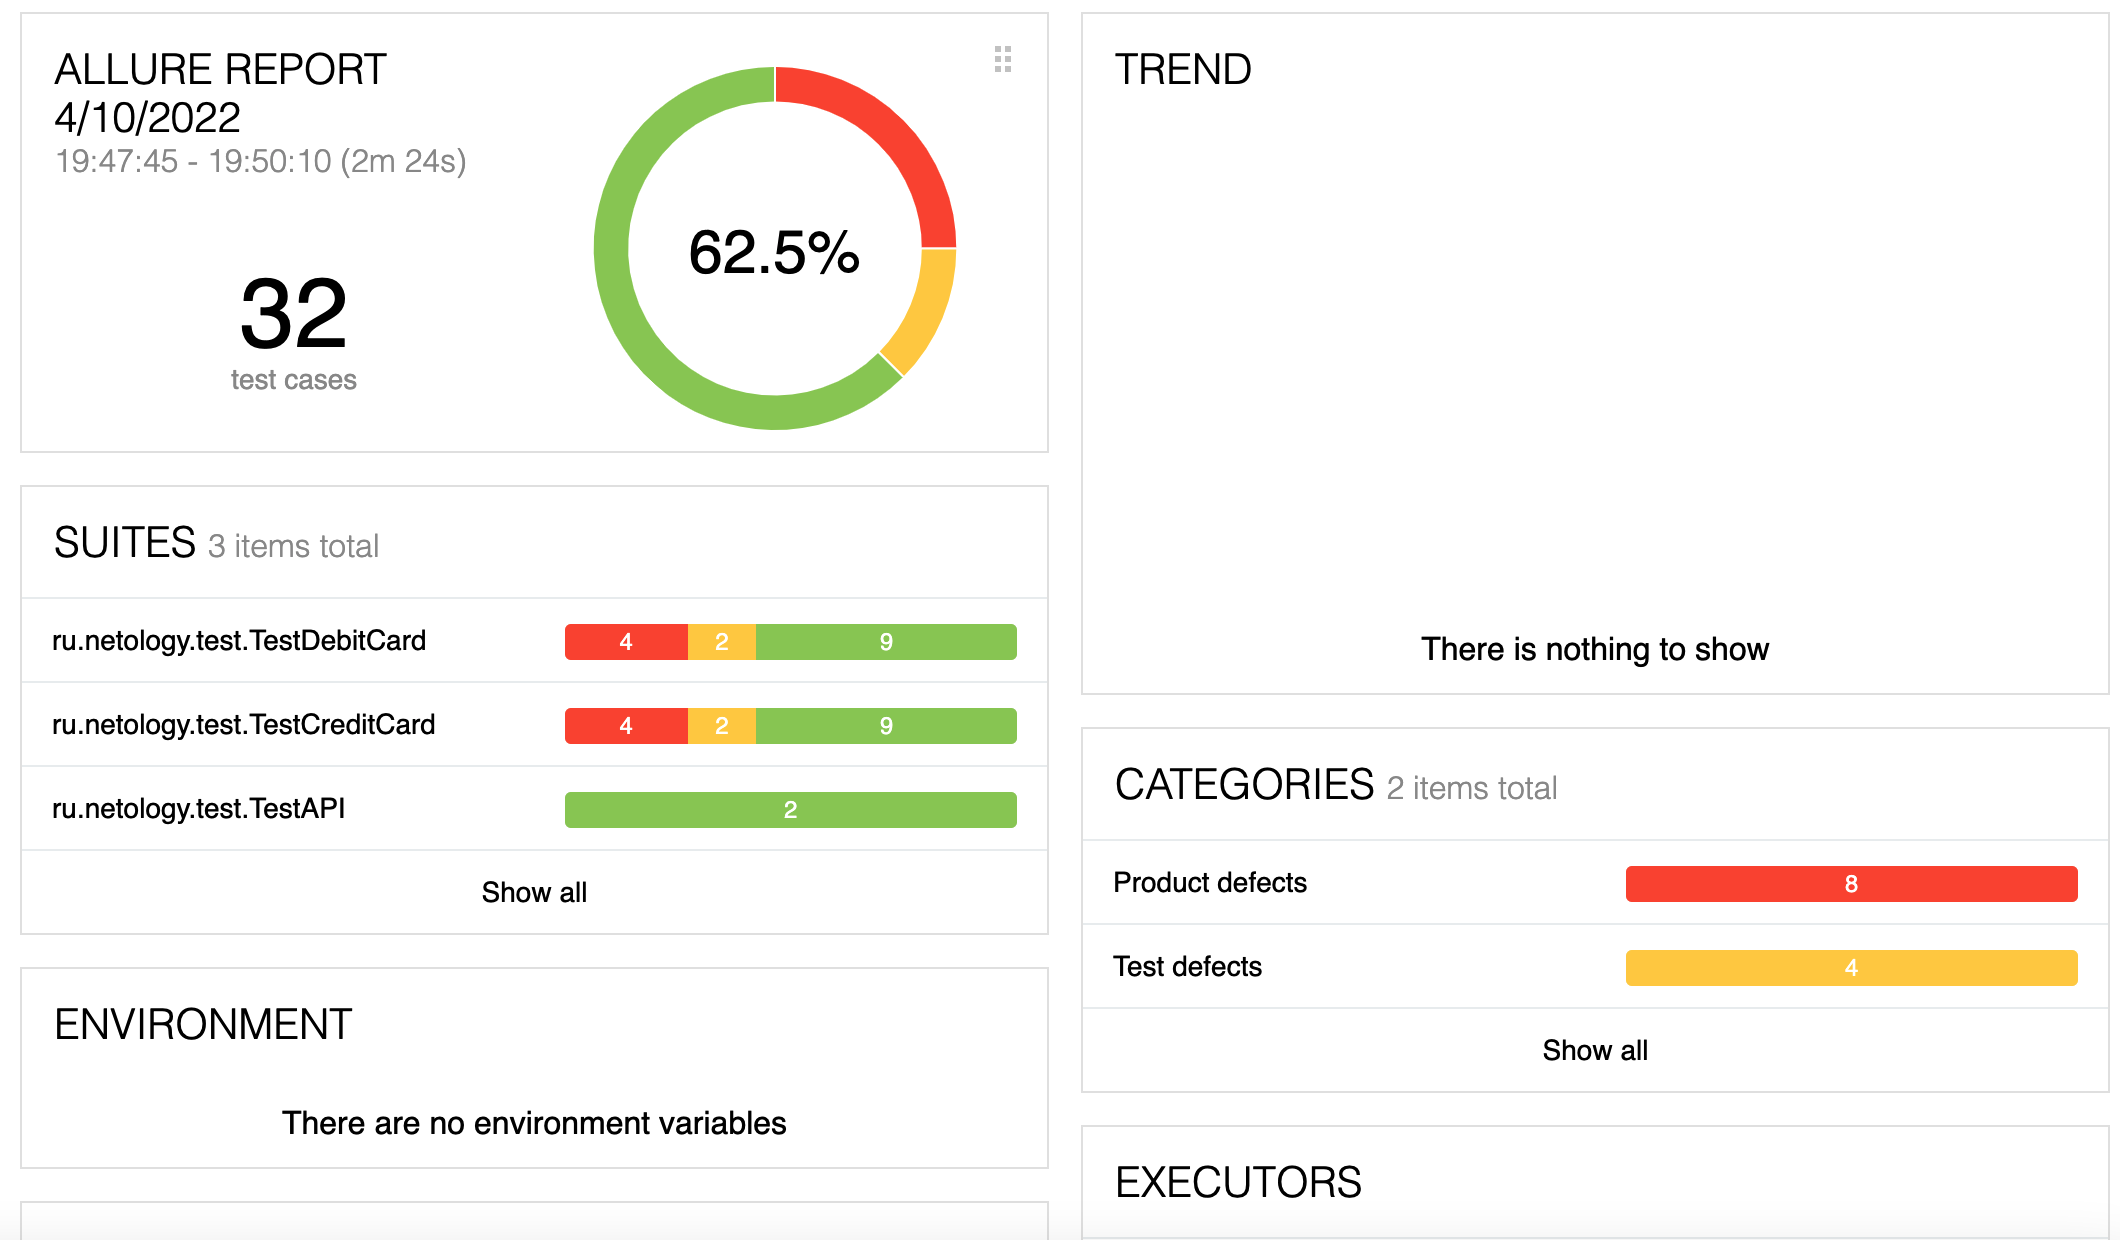
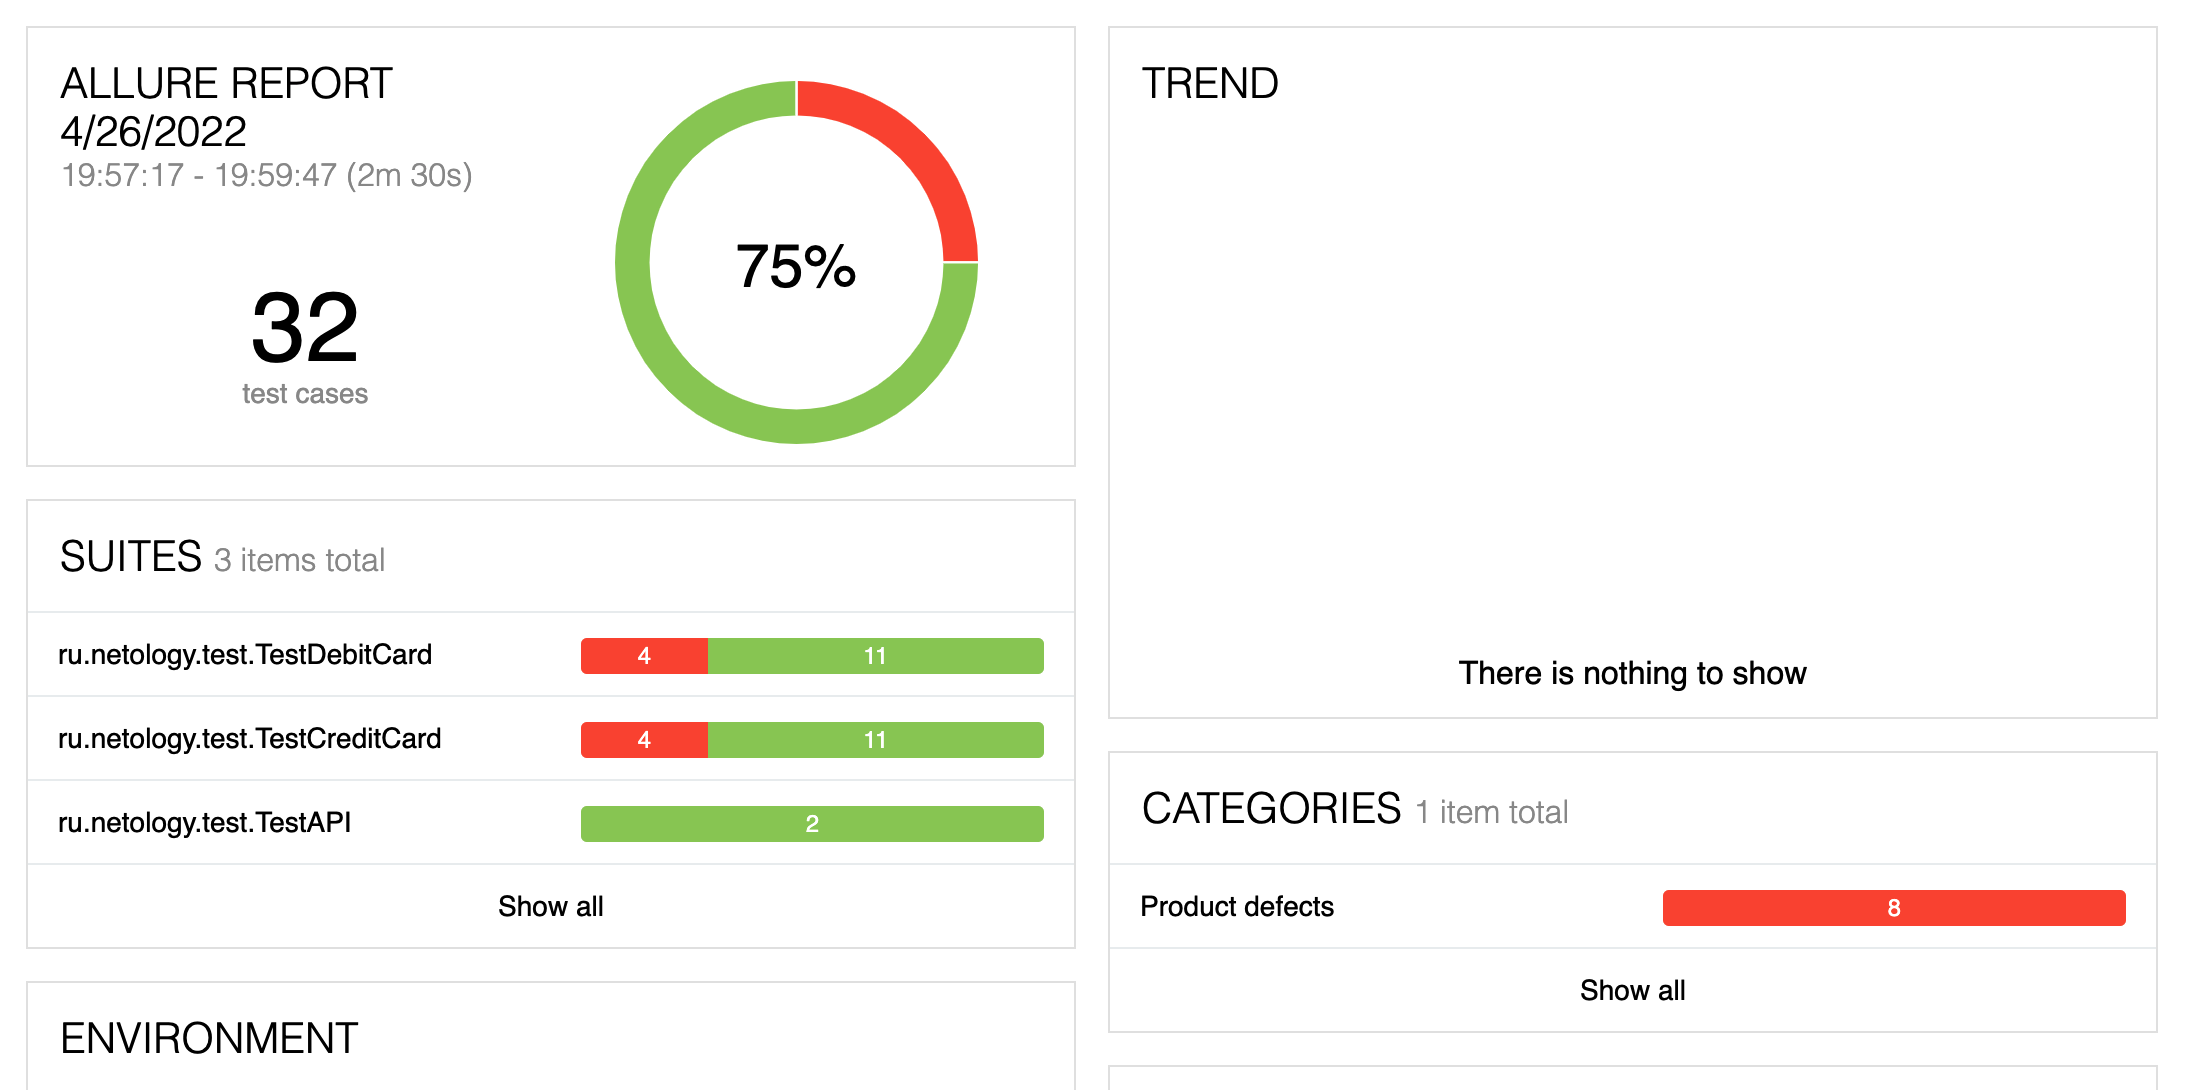
delete duration

diff --git a/src/test/java/ru/netology/test/TestDebitCard.java b/src/test/java/ru/netology/test/TestDebitCard.java
@@ -114,7 +114,6 @@ public class TestDebitCard {
         val paymentCardPage = tripPage.selectDebitCard();
         val invalidCardInfo = DataHelper.getCardInfoMonthFieldWithDoubleZero();
         paymentCardPage.allCardInformation(invalidCardInfo);
-        Duration.ofSeconds(8000);
         paymentCardPage.wrongDataLimitField();
 
     }
@@ -159,7 +158,6 @@ public class TestDebitCard {
         val paymentCardPage = tripPage.selectDebitCard();
         val invalidCardInfo = DataHelper.getCardInfoWithWrongName();
         paymentCardPage.allCardInformation(invalidCardInfo);
-        Duration.ofSeconds(8000);
         paymentCardPage.wrongFormatDataInField();
     }
 
@@ -170,7 +168,6 @@ public class TestDebitCard {
         val paymentCardPage = tripPage.selectDebitCard();
         val invalidCardInfo = DataHelper.getCardInfoWithWrongFormatName();
         paymentCardPage.allCardInformation(invalidCardInfo);
-        Duration.ofSeconds(8000);
         paymentCardPage.wrongFormatDataInField();
     }
 

diff --git a/src/test/java/ru/netology/test/TestCreditCard.java b/src/test/java/ru/netology/test/TestCreditCard.java
@@ -114,7 +114,6 @@ public class TestCreditCard {
         val creditCardPage = tripPage.selectCreditCard();
         val invalidCardInfo = DataHelper.getCardInfoMonthFieldWithDoubleZero();
         creditCardPage.allCardInformation(invalidCardInfo);
-        Duration.ofSeconds(8000);
         creditCardPage.wrongDataLimitField();
 
     }
@@ -158,7 +157,6 @@ public class TestCreditCard {
         val creditCardPage = tripPage.selectCreditCard();
         val invalidCardInfo = DataHelper.getCardInfoWithWrongName();
         creditCardPage.allCardInformation(invalidCardInfo);
-        Duration.ofSeconds(8000);
         creditCardPage.wrongFormatDataInField();
 
     }
@@ -170,7 +168,6 @@ public class TestCreditCard {
         val creditCardPage = tripPage.selectCreditCard();
         val invalidCardInfo = DataHelper.getCardInfoWithWrongFormatName();
         creditCardPage.allCardInformation(invalidCardInfo);
-        Duration.ofSeconds(8000);
         creditCardPage.wrongFormatDataInField();
     }
 

diff --git a/docs/Report.md b/docs/Report.md
@@ -18,8 +18,8 @@
 #### PostgreSQL
 
 * Всего: 32 тестов
-* Успешных: 20 (62,5%)
-* Неуспешных: 12 (37,5%)
+* Успешных: 24 (75,0%)
+* Неуспешных: 8 (25,0%)
 
 #### Отчёт по Allure Report (MySQL)
 
@@ -38,11 +38,9 @@
 * [При отправке формы с номером карты со статусом "DECLINED" появляется всплывающее окно с информацией об успешной операции](https://github.com/lstmpr/QA_Diploma/issues/3#issue-1144960240)
 * [При отправке формы с неправильным номером карты, сначала появляется окно с ошибкой, потом окно с успешной отправкой данных](https://github.com/lstmpr/QA_Diploma/issues/2#issue-1141228887)
 * [При вводе однозначных числовых значений в поле "Месяц" появляется сообщение о неверном формате](https://github.com/lstmpr/QA_Diploma/issues/1#issue-1141220515)
-* [При подключении базы PostgreSQL тесты падают, локаторы не находятся](https://github.com/lstmpr/QA_Diploma/issues/8#issue-1153852411)
 
 #### Рекомендации 
-•   устранить возможность оплаты картой со статусом "DECLINED"
-•	добавить выделение цветом активной кнопки "Купить" или "Купить в кредит";  
-•	сохранять заполненные поля формы при переключении между функциями "Купить" и "Купить в кредит";  
-•	добавить проверку для всех полей на допустимые заполнения
-•	устранить проблемы с поддержкой PostgreSQL
+* устранить возможность оплаты картой со статусом "DECLINED"
+* добавить выделение цветом активной кнопки "Купить" или "Купить в кредит";  
+* сохранять заполненные поля формы при переключении между функциями "Купить" и "Купить в кредит";  
+* добавить проверку для всех полей на допустимые заполнения
